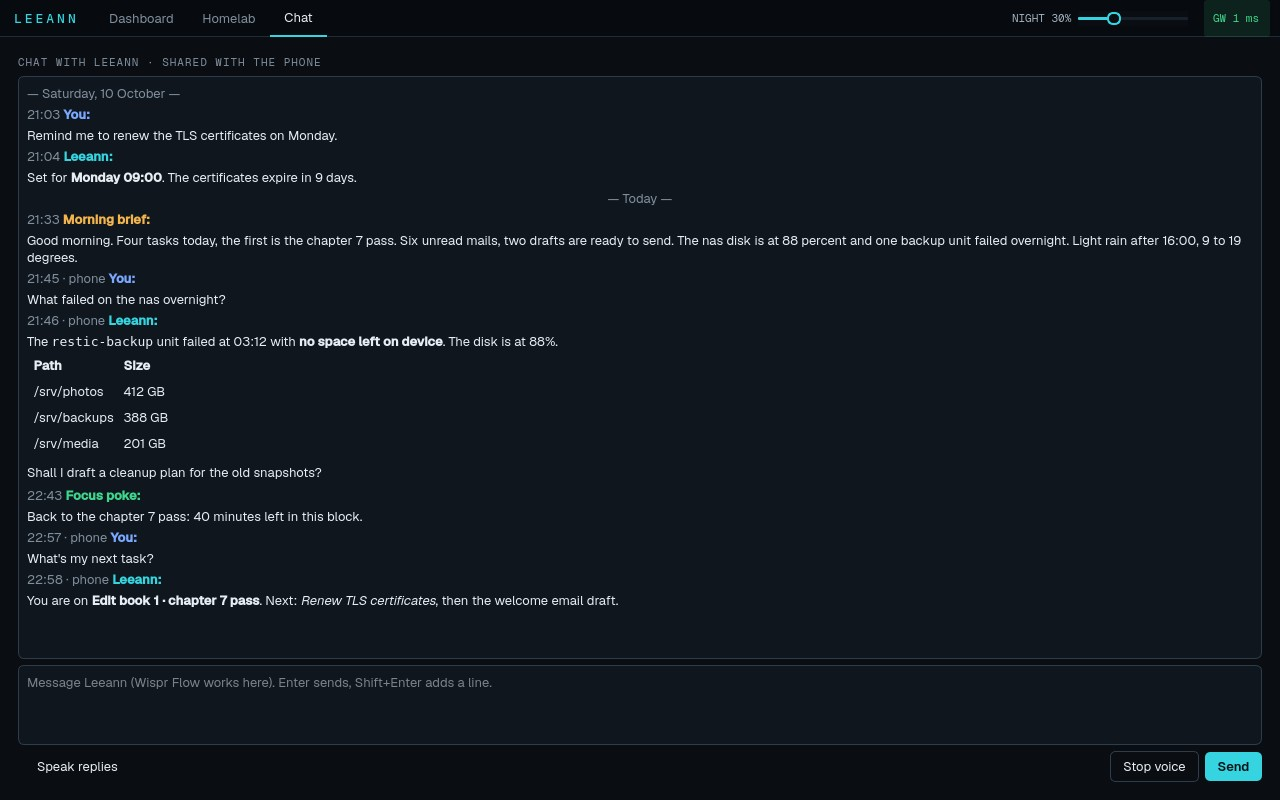
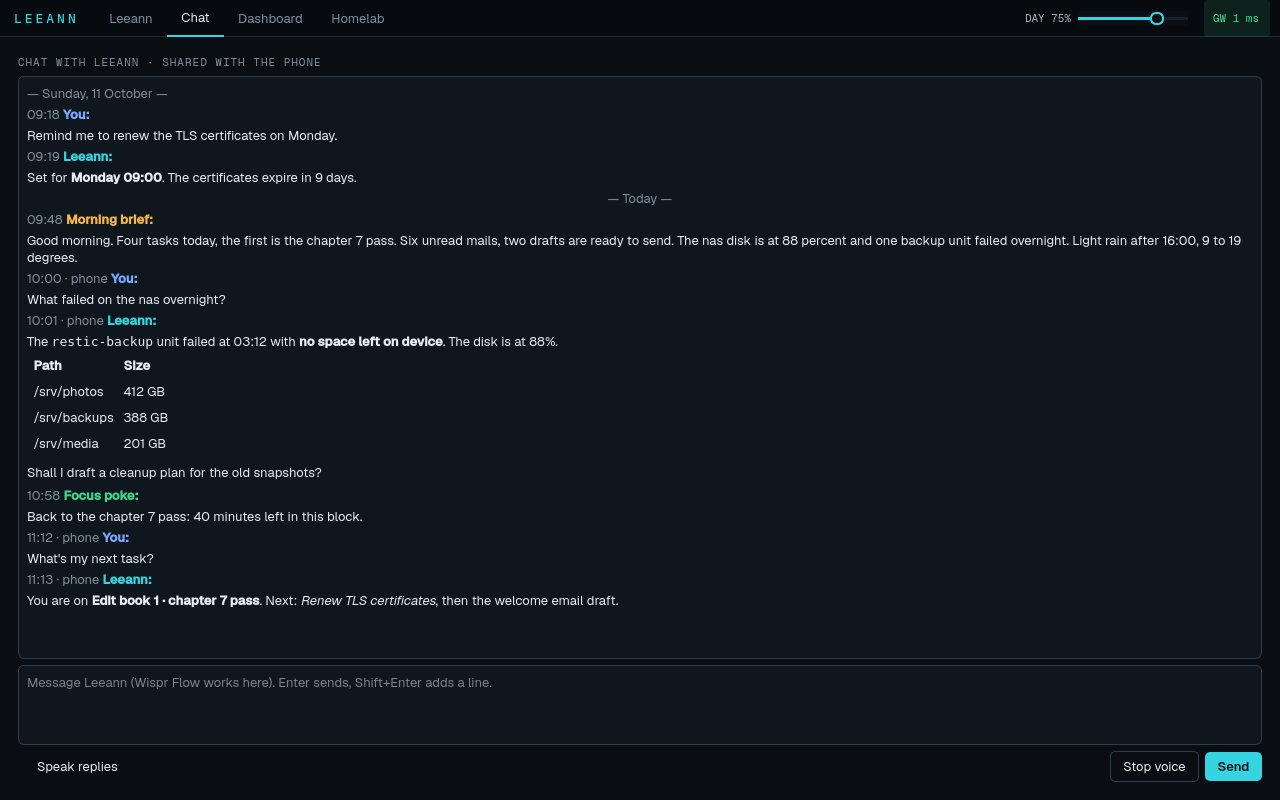
README: meetings, mail review, jobs, health, personas, attachments
Claude-Session: https://claude.ai/code/session_01B6xnTU6oaFEfFrrxuZdRbR

diff --git a/README.md b/README.md
@@ -1,55 +1,136 @@
 # Leeann
 
-**A private assistant for one person: an AI agent on a home server, a desktop tray app and an Android app that share one conversation.** Leeann runs on a self-hosted agent with local language models. She reads mail, task boards, finances, release activity and the state of the homelab, writes a morning brief, and answers by voice. Nothing leaves the home network: the phone reaches her over Tailscale, and speech recognition and speech synthesis run on the phone itself.
+**A private assistant for one person: an AI agent on a home server, a desktop tray app and an Android app that share one conversation.** Leeann runs on a self-hosted agent with local language models. She reads mail, task boards, finances, release activity and the state of the homelab. She writes a morning brief, keeps track of meetings, coaches on health and answers by voice. The language models, the data and the history stay on the home network. The phone reaches her over Tailscale. Speech recognition and speech synthesis run on the phone itself.
 
 ![Phone: the home screen with Leeann's presence orb, the last question and answer, and the prompt](screenshots/phone-home.jpg)
 
-> Screenshots show a demo gateway with invented tasks, mail, hosts, money and conversations.
+> Screenshots show a demo gateway with invented tasks, mail, hosts, money, health data and conversations.
 
 | Chat | Dashboard | Homelab | Host |
 |---|---|---|---|
 | ![Shared chat with markdown answers](screenshots/phone-chat.jpg) | ![Dashboard cards](screenshots/phone-dashboard.jpg) | ![Homelab hosts by group](screenshots/phone-homelab.jpg) | ![Host sheet with failed units and services](screenshots/phone-host.jpg) |
 
-![Desktop: dashboard and chat](screenshots/desktop-dashboard.jpg)
+![Desktop: the home tab with the presence orb, the last exchange and the prompt](screenshots/desktop-home.jpg)
+
+![Desktop: dashboard with KPI tiles, today's plan and the brief](screenshots/desktop-dashboard.jpg)
 
 | Desktop homelab | Desktop chat |
 |---|---|
 | ![Host cards with a detail panel](screenshots/desktop-homelab.jpg) | ![Chat with markdown answers](screenshots/desktop-chat.jpg) |
 
+| Desktop health | Desktop health, lower part |
+|---|---|
+| ![Health tab: today, recovery, sleep stages, walks, fasting and the chat with coach Maja](screenshots/desktop-health.jpg) | ![Health tab: weight trend, measurements and today's food log](screenshots/desktop-health-2.jpg) |
+
 ## Features
 
-- **One conversation, every device.** The phone and the desktop share a seven-day chat history. A question asked on the phone shows on the desktop within a fraction of a second, and the reverse. Each device speaks only the answers to its own questions.
-- **Hands-free on the phone.** Tap the orb, press the play button on a Bluetooth headset, use the Quick Settings tile or the home screen shortcut, or say "Hey Leeann". A beep confirms, silence ends the turn, and the answer is spoken. The headset microphone is used when one is connected.
-- **On-device voice.** Kokoro text-to-speech and streaming speech recognition run on the phone with sherpa-onnx; the wake word uses keyword spotting. Long answers are spoken sentence by sentence while the next part is generated. A server voice is the fallback.
-- **Commands without a round trip.** "Brief", "next task", "homelab status", "mail", "stop", "repeat", "louder" and "softer" are answered on the phone from live data; everything else goes to Leeann.
-- **Dashboard.** The day with weather and deadlines, the morning brief, the active task and what comes next, mail, company task boards and releases, open features and bugs of a client platform, net worth and a music channel, the same on both apps.
-- **Homelab view.** Hosts grouped like a self-hosted homelab dashboard, with load, disk, uptime and failed systemd units, plus the services on each host with a live up/down check.
-- **Notifications that keep secrets.** New briefs, focus pokes, mail and answers arrive as notifications with generic text only ("New brief from Leeann"); the content stays in the app.
+- **One conversation, every device.** The phone and the desktop share a seven-day chat history. A question asked on the phone shows on the desktop within a fraction of a second, and the reverse. Each device speaks only the answers to its own questions. Both apps have the same tabs: Leeann, Chat, Dashboard, Health, Homelab and Jobs.
+- **A clean home screen.** The Leeann tab shows a presence orb, the last question and answer, and a prompt. The orb breathes when idle, turns while Leeann thinks and pulses while she speaks. The last exchange fades out after a minute.
+- **Hands-free on the phone.** Tap the orb, press a Bluetooth headset button, use the Quick Settings tile or the home screen shortcut, or say "Hey Leeann". A beep confirms, silence ends the turn, and the answer is spoken. The headset microphone is used when one is connected. A setting picks which headset gesture starts Leeann. Other presses still control music and video.
+- **On-device voice.** Kokoro text-to-speech and streaming speech recognition run on the phone with sherpa-onnx. The wake word uses keyword spotting. Long answers are spoken sentence by sentence while the next part is generated. Numbers, units and symbols are read as words ("128/82 mmHg" becomes "128 over 82"). Leeann pauses other media while she speaks and lets it continue after. The desktop listens for short spoken answers too.
+- **Commands without a round trip.** "Brief", "next task", "homelab status", "mail", "stop", "repeat", "louder" and "softer" are answered on the phone from live data. Everything else goes to Leeann.
+- **Dashboard.** The day with weather and deadlines, today's plan from the task tracker, the morning brief, mail, company task boards and releases, open features and bugs of a client platform, net worth and a music channel. Each card has "Ask Leeann". The same data shows on both apps.
+- **Morning brief and focus pokes.** A brief each morning lists the tasks planned for the day, the board tasks, the weather and one line on sleep and steps. Short focus pokes during work hours keep the active task in view.
+- **Homelab view.** Hosts grouped like a self-hosted homelab dashboard, with load, disk, uptime and failed systemd units. Each host has a 24-hour graph, the services and containers that run on it, and a live up/down check.
+- **Homelab alerts and network scan.** A scheduled check reports a host that is down, new failed units and full disks. A nightly scan of the home network reports new machines and open ports.
+- **Notifications that keep secrets.** Briefs, focus pokes, mail questions, alerts and answers arrive as notifications with generic text only ("New brief from Leeann"). The content stays in the app.
 - **Day and night volume.** Separate volumes for day and night, on both devices.
-- **Offline behaviour.** The desktop falls back to direct access when the gateway is down; the phone shows a clear offline banner and keeps the last data.
+- **Offline behaviour.** The desktop falls back to direct access when the gateway is down. The phone shows a clear offline banner and keeps the last data.
+
+## Presence-aware voice
+
+Leeann knows where her user is and picks the device that speaks.
+
+- A desk camera on a small home device reports when he sits at the desk.
+- The phone reports the Wi-Fi network, walking and whether headphones are connected.
+- The gateway turns this into one state: desk, home, work, walking, out or unknown.
+- Briefs, pokes and questions are spoken into the phone's headphones when they are connected. Else the desktop speaks at the desk or at home. Elsewhere nobody speaks and the phone only notifies.
+- Both apps show the state as a small chip. Leeann gets it as one line of context with each chat.
+
+## Mail review
+
+Leeann asks about important new mail, one mail at a time, in the chat. A "yes" creates a task in the next free work slot of a self-hosted task tracker. A "no" is remembered, and she never asks again. Before she creates a task, she checks for a similar open task or one that is already done. She can also link the mail to an existing task. The answer can be typed or spoken.
+
+## Meetings
+
+Meetings become searchable context for Leeann.
+
+1. **Record.** The desktop records the microphone and the desktop sound into one audio track. The phone records in-person meetings and uploads them through the gateway. A crash loses nothing: both apps save the recording as it runs. Leeann does not speak while a recording runs.
+2. **Transcribe.** A watcher finds each new recording. It transcribes it with Whisper (faster-whisper) on a local GPU, in Slovenian or English.
+3. **Recap.** The local language model classifies the meeting by account, writes an English recap and suggests tasks. When it is not sure, Leeann asks in the chat.
+4. **File.** The transcript, the recap and the audio go to a Meetings page in the task tracker. Suggested tasks wait there to be accepted or dismissed.
+
+Leeann uses the recaps as context when she answers task questions. Old recordings are processed at night, only when the GPU is idle.
+
+## Jobs tab
+
+The Jobs tab on both apps shows the work that runs on a schedule.
+
+- **Meeting watcher.** State, the current file with its step and progress, and the queue. Buttons pause and resume the watcher, start the backlog or run one recording now.
+- **Scheduled jobs.** The agent's own scheduled jobs and those of each persona, with schedule, last and next run. Buttons pause, resume or run a job now.
+- **Timers.** systemd timers on the servers, grouped by host, read only.
+- **Recorder.** A Record card on top starts and stops a meeting recording, with a timer and level meters.
+
+More scheduled jobs offload routine work. They watch the other jobs, digest operations mail and task board activity, sweep overdue tasks, follow up on meetings, prepare a weekly review and a draft monthly report, prepare upcoming meetings, plan quarterly updates, remind of tax filing deadlines, collect invoices and sort sales leads. Each job only reads. Its report arrives in the chat, and a short answer such as "archive ops" or "1 done, 2 move thu" applies the change.
+
+The desktop chat takes file attachments: images, PDFs and text files, by drag and drop, the file dialog or a pasted screenshot.
+
+## Health and coach Maja
+
+The Health tab collects the data that the phone's Health Connect gets from wearables and device apps. It keeps everything without a time limit, so long trends stay visible.
+
+- **Today.** Energy eaten against the goal, protein, carbs and fat, steps, sleep, resting heart rate and exercise.
+- **Recovery.** A daily score from heart rate variability, resting heart rate and sleep, against a 30-day baseline.
+- **Sleep.** Sleep stages for the last two weeks. A tap on a night opens the night view: hypnogram, heart rate, HRV, blood oxygen, breathing, skin temperature and movement on one time axis, with zoom and the numbers of the night.
+- **Walks and steps.** Walks from workout sessions and from step records, with short breaks kept inside one walk.
+- **Fasting.** A fasting timer for intermittent fasting and one meal a day (OMAD), with the last fasts.
+- **Weight and measurements.** A weight chart with the trend and the goal. Blood pressure, glucose and ketones from Health Connect, from manual entry or from a photo of the meter. ECG results are read from the PDF report of a handheld ECG device: share the PDF to the app, and the values fill in.
+- **Food log.** Log food as text, a meal photo, a package label photo, a barcode or a search. Local vision and text models estimate the values. A label without a nutrition table gets an estimate. An unknown food opens a form, and "my foods" learns it.
+- **Coach Maja.** A chat with a health coach persona inside the tab, and one check-in each evening.
+
+Photos and PDFs are read by local models. Barcode and food searches are the one exception: they look up the product in Open Food Facts. Only the barcode or the search words leave the home network.
+
+## Personas
+
+Leeann is the front door. She hands work to personas with their own memory and files:
+
+- **Vera** for personal finance.
+- **Nika** for the finance, deadlines and paperwork of the own company.
+- **Lara** for sales and marketing.
+- **Zala**, a senior developer, for code review and release readiness checks.
+- **Tina** for his day job. Her memory never mixes with the own company.
+- **Maja**, the health coach.
+
+All personas run on local models through Ollama: qwen3.6:35b for chat and tools, a coder model for Zala and a vision model for photos.
 
 ## Tech stack
 
-Hermes Agent (Nous Research) · local LLMs · Python · FastAPI · SQLite · Server-Sent Events · PyQt6 · Flutter · sherpa-onnx (Kokoro TTS, streaming Zipformer ASR, keyword spotting) · audio_service · WorkManager · Docker · Tailscale
+Hermes Agent (Nous Research) · Ollama · local LLMs (qwen3.6, qwen3-vl, qwen3-coder) · Python · FastAPI · SQLite · Server-Sent Events · PyQt6 · Flutter · sherpa-onnx (Kokoro TTS, streaming Zipformer ASR, keyword spotting) · faster-whisper · Health Connect · Open Food Facts · ffmpeg · audio_service · WorkManager · systemd · Docker · Tailscale
 
 ## How it works
 
 ```
-Android app (Flutter) ──┐                          ┌── Hermes agent (chat, local LLMs)
-  on-device TTS + ASR   ├── Tailscale / LAN ── Gateway ──┼── status collector (mail, boards, finance, …)
-Desktop tray (PyQt6) ───┘    device tokens    (FastAPI)  ├── homelab layout + live host checks
-                                                         ├── cron output (morning brief, focus pokes)
-                                                         └── SQLite: shared chat history
+Android app (Flutter) ──┐                              ┌── Hermes agent + personas (local LLMs)
+  on-device TTS + ASR   │                              ├── status collector (mail, boards, finance, …)
+  Health Connect sync   ├── Tailscale / LAN ── Gateway ┼── homelab layout + live host checks
+  meeting recorder      │     device tokens   (FastAPI)├── cron output (brief, pokes, mail review, alerts)
+Desktop tray (PyQt6) ───┘                              ├── presence (desk camera, phone context)
+  meeting recorder                                     ├── health + food (local vision and text models)
+                                                       ├── jobs (meeting watcher, scheduled jobs, timers)
+                                                       └── SQLite: shared chat, health data, recordings
+
+Meeting watcher (desktop PC) ── Whisper on a local GPU ── recap ── task tracker Meetings page
 ```
 
-A small gateway sits between the apps and the agent. It holds the agent's API key, so the apps only ever hold a per-device token. It caches the dashboard data, merges the homelab layout with live host checks, streams answers as Server-Sent Events and pushes new messages, briefs, pokes and mail counts to every open app.
+A small gateway sits between the apps and the agent. It holds the agent's API key, so the apps only ever hold a per-device token. It caches the dashboard data and merges the homelab layout with live host checks. It streams answers as Server-Sent Events. It pushes new messages, briefs, pokes, mail questions, health updates, job changes and presence to every open app. It stores the health data and the coach chat. It takes phone recordings until the meeting watcher fetches them.
 
 ## Design principles
 
-- **The home network is the cloud.** Language models, data and history stay on the home server; speech stays on the phone.
-- **Least privilege.** The apps never see the agent's key; device tokens are stored as hashes and can be revoked one by one. The apps cannot change anything on the servers.
-- **Quiet logs.** The gateway logs paths, status codes and timings, never message text or tokens.
-- **One microphone user at a time.** The wake word, dictation and talk turns hand the microphone to each other, so the headset button stays a media button.
+- **The home network is the cloud.** Language models, data and history stay on the home server. Speech stays on the phone. Only public lookups (weather, food products) go out.
+- **Least privilege.** The apps never see the agent's key. Device tokens are stored as hashes and can be revoked one by one. The apps change nothing on the servers except a few jobs. They can pause, resume and start the meeting watcher. They can pause, resume and run the scheduled jobs of the agent and its personas. Each action goes through the gateway. The gateway accepts only known job ids and file names. Server timers are read only.
+- **Quiet logs.** The gateway logs paths, status codes and timings. It never logs message text, health values, food text or tokens.
+- **The desktop and the phone stay in sync.** Each feature comes to both apps, with the same data and the same rules.
+- **One microphone user at a time.** The wake word, dictation, talk turns and the meeting recorder hand the microphone to each other, so the headset button stays a media button.
 
 ## Availability
 
